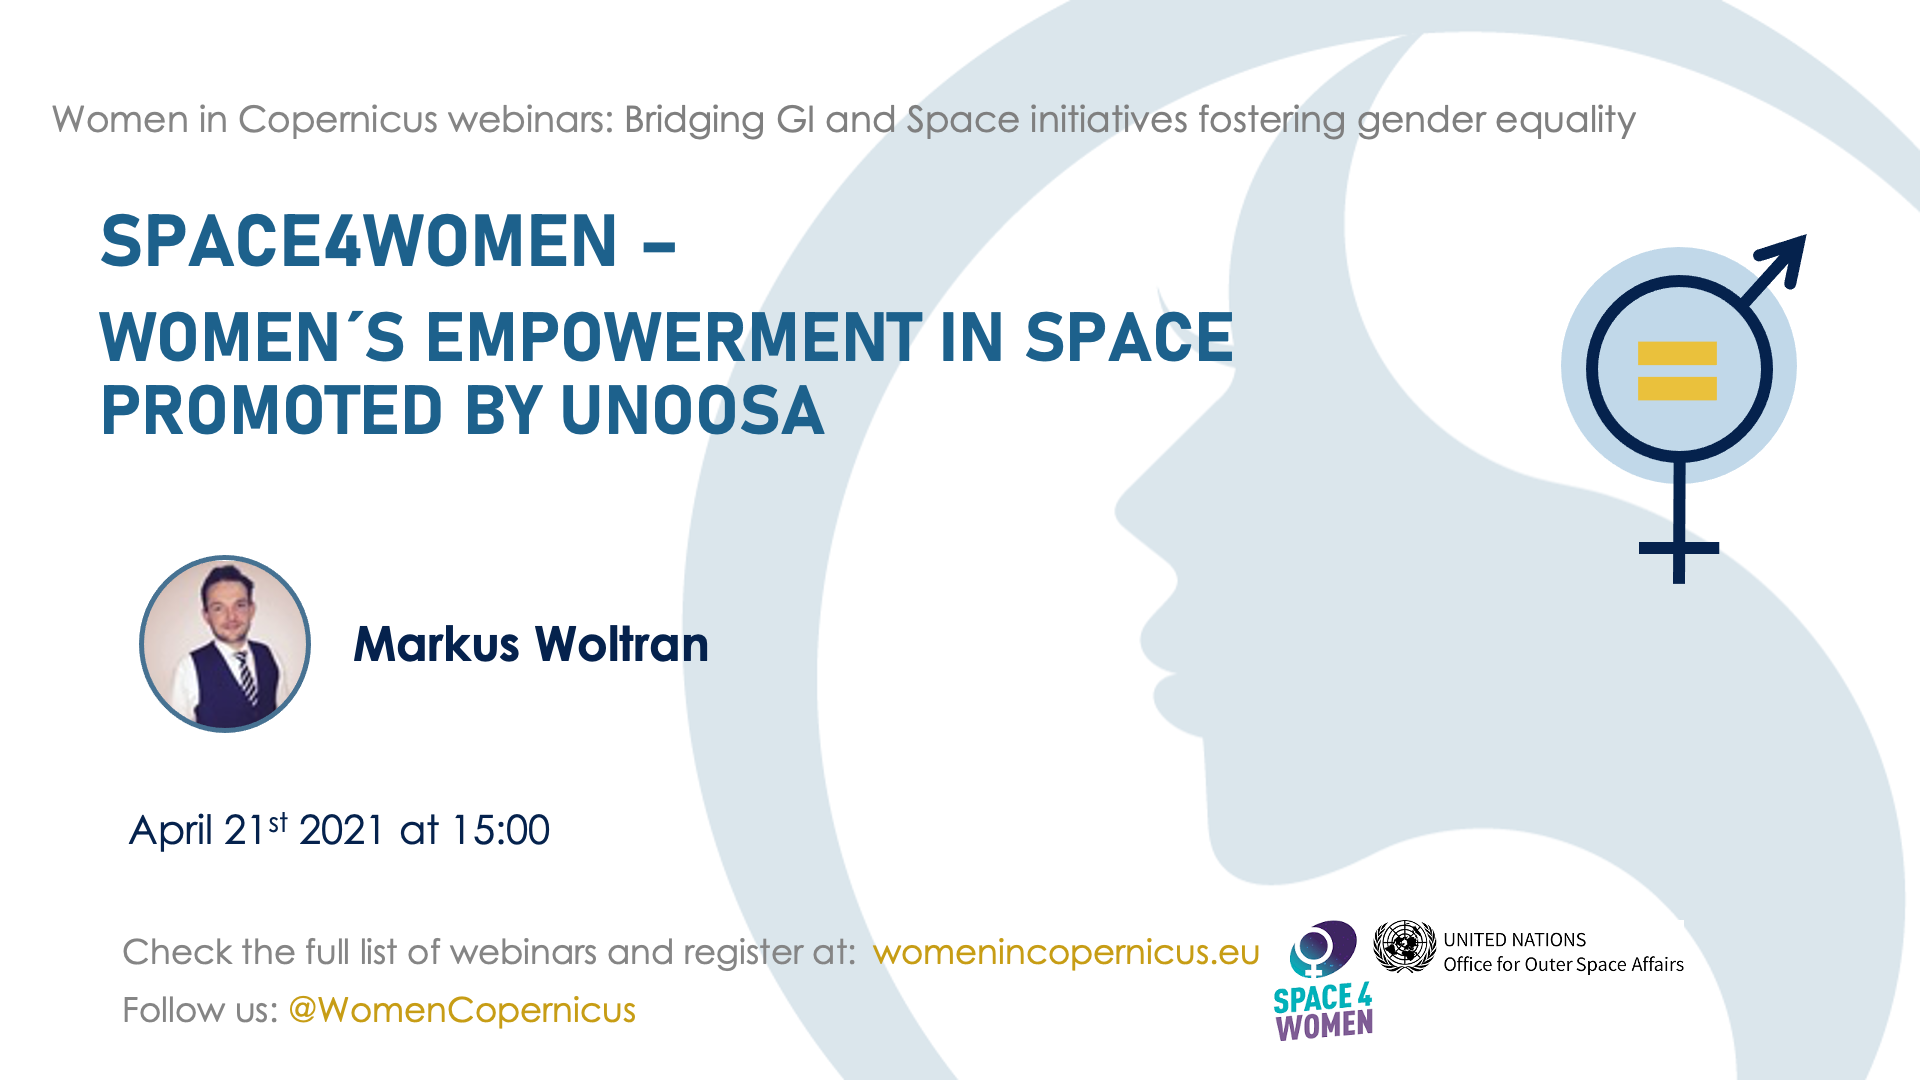
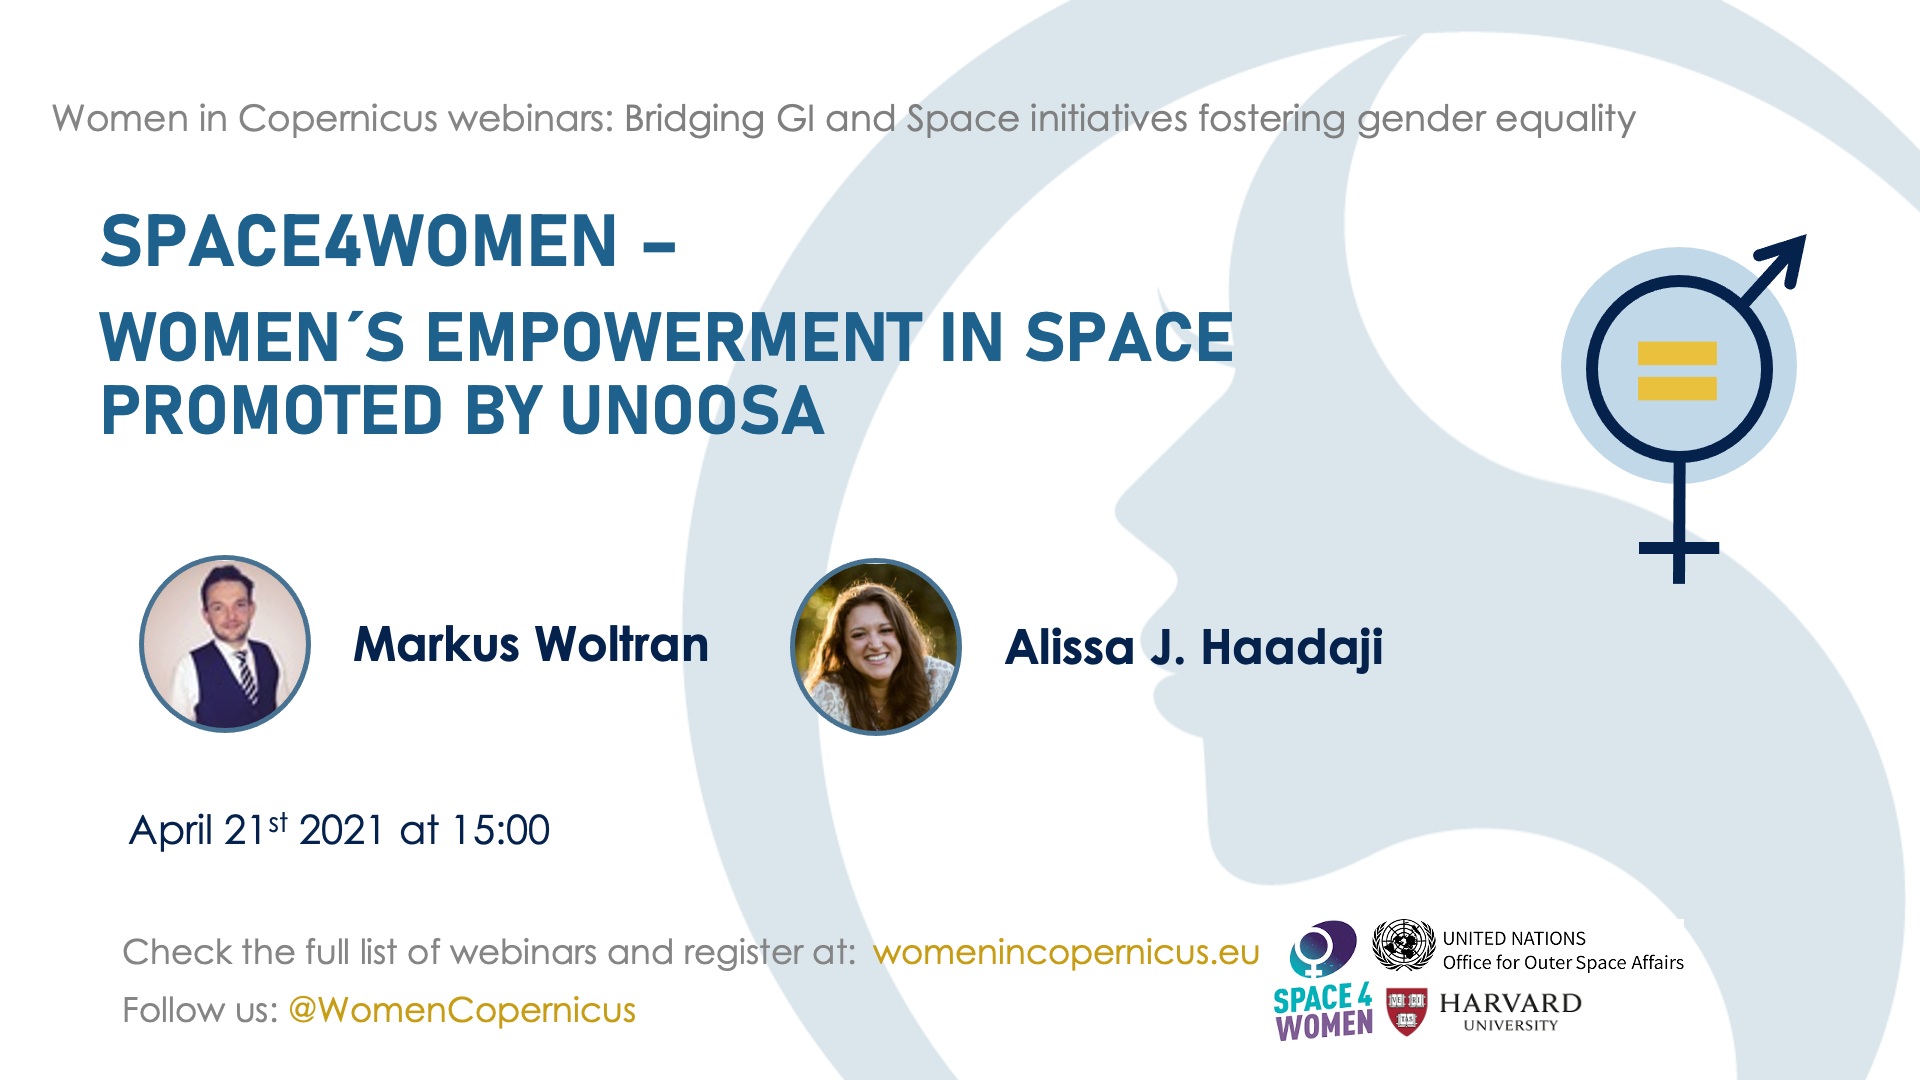
updated webinars

diff --git a/events.html b/events.html
@@ -199,7 +199,7 @@
 								<div class="col-md-8 mt-sm-20 left-align-p">
 									<br> <br>
 									<h4>14/04/2021 at 15:00 CET</h4>
-									<h3>SPACE WOMEN SPACE GIRLS –
+									<h3>SPACE GIRLS SPACE WOMEN –
 										A UNIQUE exhibition of female portraits in the NEREUS regions
 									</h3>
 									<p> Register <a href="https://forms.gle/trS8746uUsBX3isH7" target="_blank"
@@ -302,7 +302,7 @@
 										the organisation of international
 										conferences, workshops, expert meetings and symposia. Markus is also in charge
 										of the office's engagement on the
-										implementation of a dedicated 'Space for Women' � Project. He also supports
+										implementation of a dedicated 'Space for Women' Project. He also supports
 										different UNOOSAs outreach and awareness
 										raising activities as well as contributes to papers and other written products
 										and publications. Markus has an
@@ -310,7 +310,27 @@
 										Information for Disaster Management and
 										Emergency Response (UN-SPIDER) as well as in the United Nations Information
 										Service (UNIS) and in the Austrian Foreign
-										Ministry. Markus holds a master�s Degree in political science.</p>
+										Ministry. Markus holds a master's Degree in political science.</p>
+									<br>
+								</div>
+							</div>
+							<div class="row">
+								<div class="col-md-2">
+									<img src="img/events/alissa.png" alt="Webinar WiC" class="img-fluid">
+								</div>
+								<div class="col-md-10">
+									<h4>Alissa J. Haadaji</h4>
+									<p>Dr. Alissa J. Haddaji is a faculty researcher and lecturer in Space Law, Policy and Ethicsat Harvard University and
+									Harvard Law School. She founded and leads the Space Consortium at Harvard & MIT.Her expertise is in Natural Space Threat
+									Management, more specifically, Planetary Protection and Planetary Defense. She is the coordinator of the United
+									Nations-mandatedSMPAG Legal Working Group on Planetary Defense. Prior to her Planetary Defense work,sheserved for four
+									years as COSPAR’s Planetary Protection Project Officer, where she co-authored and led the coordination ofthe
+									International Planetary Protection Handbook (IPPH) and of its subsequenttrainings in America, Europe and Asia.She is a
+									UNOOSA Space4Women Mentor where sheadvises a class of 12 menteesand organizes monthlymentee webinars forall UNOOSA
+									Space4Women mentees. Duringeach of these 90min monthly webinars, a prominentwomanof thespace industryisinvited toshare
+									herlife journeyand advice for the next generation andparticipate in a live Q&Awith the UNOOSA S4W mentees. Alissa J.
+									Haddaji is alsoanInternational Institute of Space Law(IISL)and an International Astronautical Federation (IAF)member and
+									the COSPAR point of contact at SGAC.</p>
 									<br>
 								</div>
 							</div>
@@ -488,6 +508,28 @@
 										to attend webinars
 										<br>
 									</p>
+								</div>
+							</div>
+							<div class="row">
+								<div class="col-md-2">
+									<img src="img/events/vera.png" alt="Webinar WiC" class="img-fluid">
+								</div>
+								<div class="col-md-10">
+									<h4>Vera Pinto</h4>
+									<p>Vera Pinto is a space enthusiast that transformed her passion into a career.
+										Currently she works as Policy and Equality
+										Coordinator at Directorate General for Defense Industry and Space (DG DEFIS) at
+										the European Commission, specialising in
+										European Space Policy and European Space Programme: Copernicus, Galileo and
+										EGNOS.
+										She holds a Master's Degree in Political Science and International Relations
+										from the Nova University of Lisbon,
+										Portugal. Prior to her time working at the European Commission, she worked in
+										different Ministers in Portugal. At her
+										last position before she moved from Lisbon to Brussels, she was an European
+										Union Grant Manager for the Portuguese
+										Ministry of Home Affairs, covering migration and refugees.</p>
+									<br>
 								</div>
 							</div>
 						</blockquote>
